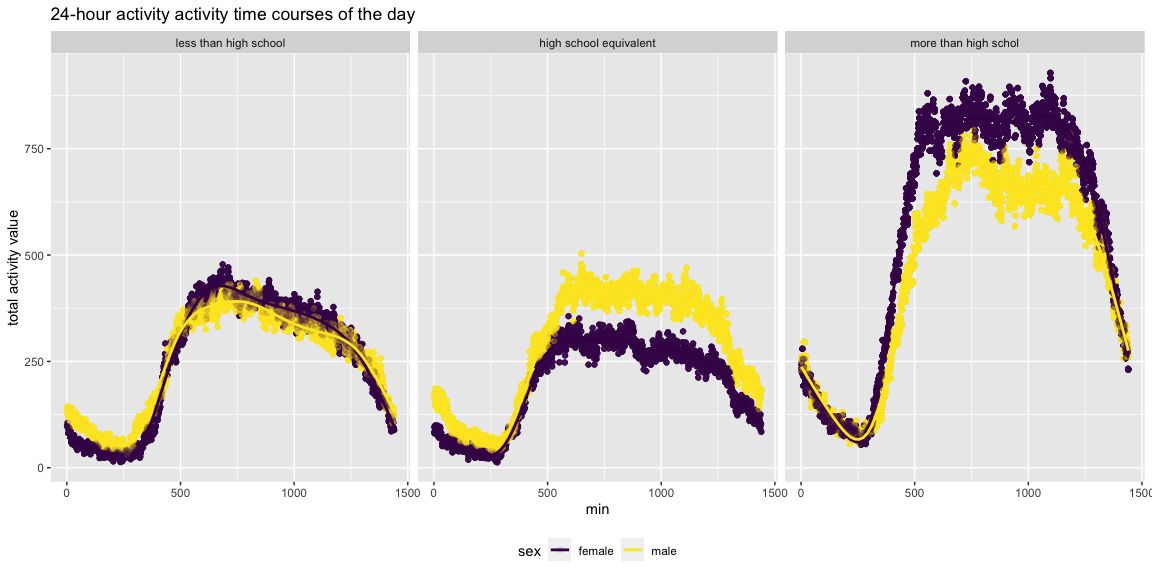
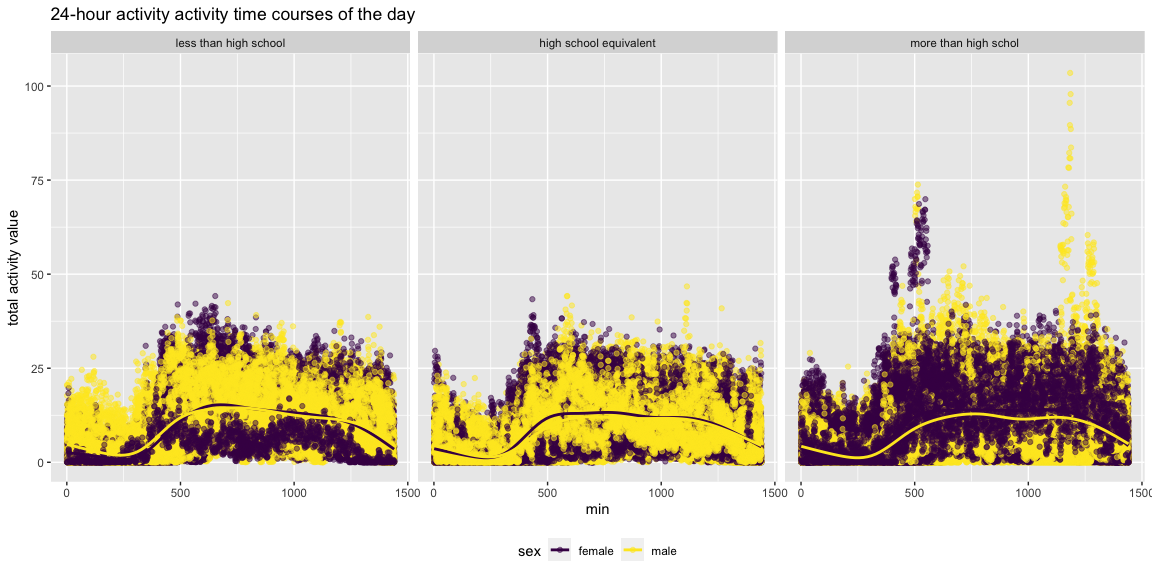
updated problem 3 graph

Changed region(s): [[0.375, 0.125, 1.0, 0.8125], [0.0312, 0.4375, 0.3438, 0.8125]]

diff --git a/p8105_hw3_yj2803.md b/p8105_hw3_yj2803.md
@@ -413,12 +413,9 @@ df_mims_cleaned |>
 
 ``` r
 df_mims_cleaned |> 
-  group_by(min, sex, education) |> 
-  mutate(
-    total_values = sum(mims_values) 
-  ) |> # added a column that sums up mims_values for each individual
-  ggplot(aes(x = min, y = total_values, color = sex)) +
-  geom_point(alpha = .1) +
+  group_by(seqn, min) |> 
+  ggplot(aes(x = min, y = mims_values, color = sex)) +
+  geom_point(alpha = .5) +
   geom_smooth(se = F) +
   facet_grid(~ education) +
   labs(
@@ -432,26 +429,3 @@ df_mims_cleaned |>
 ```
 
 ![](p8105_hw3_yj2803_files/figure-gfm/unnamed-chunk-18-1.png)<!-- -->
-
-``` r
-  
-df_mims_cleaned |> 
-  mutate(hour = min %/% 60) |> 
-  group_by(hour, sex, education) |> 
-  mutate(total_values = sum(mims_values)) |> 
-  ggplot(aes(x = hour, y = total_values, color = sex)) +
-  geom_point(alpha = .1) +
-  geom_smooth(se = F) +
-  facet_grid(~ education) +
-  labs(
-    title = "24-hour activity activity time courses of the day",
-    y = "total activity value"
-  ) +
-  theme(legend.position = "bottom") +
-  scale_x_continuous(limits = c(0, 24)) +
-  viridis::scale_color_viridis(
-    discrete = TRUE
-  )
-```
-
-![](p8105_hw3_yj2803_files/figure-gfm/unnamed-chunk-18-2.png)<!-- -->
